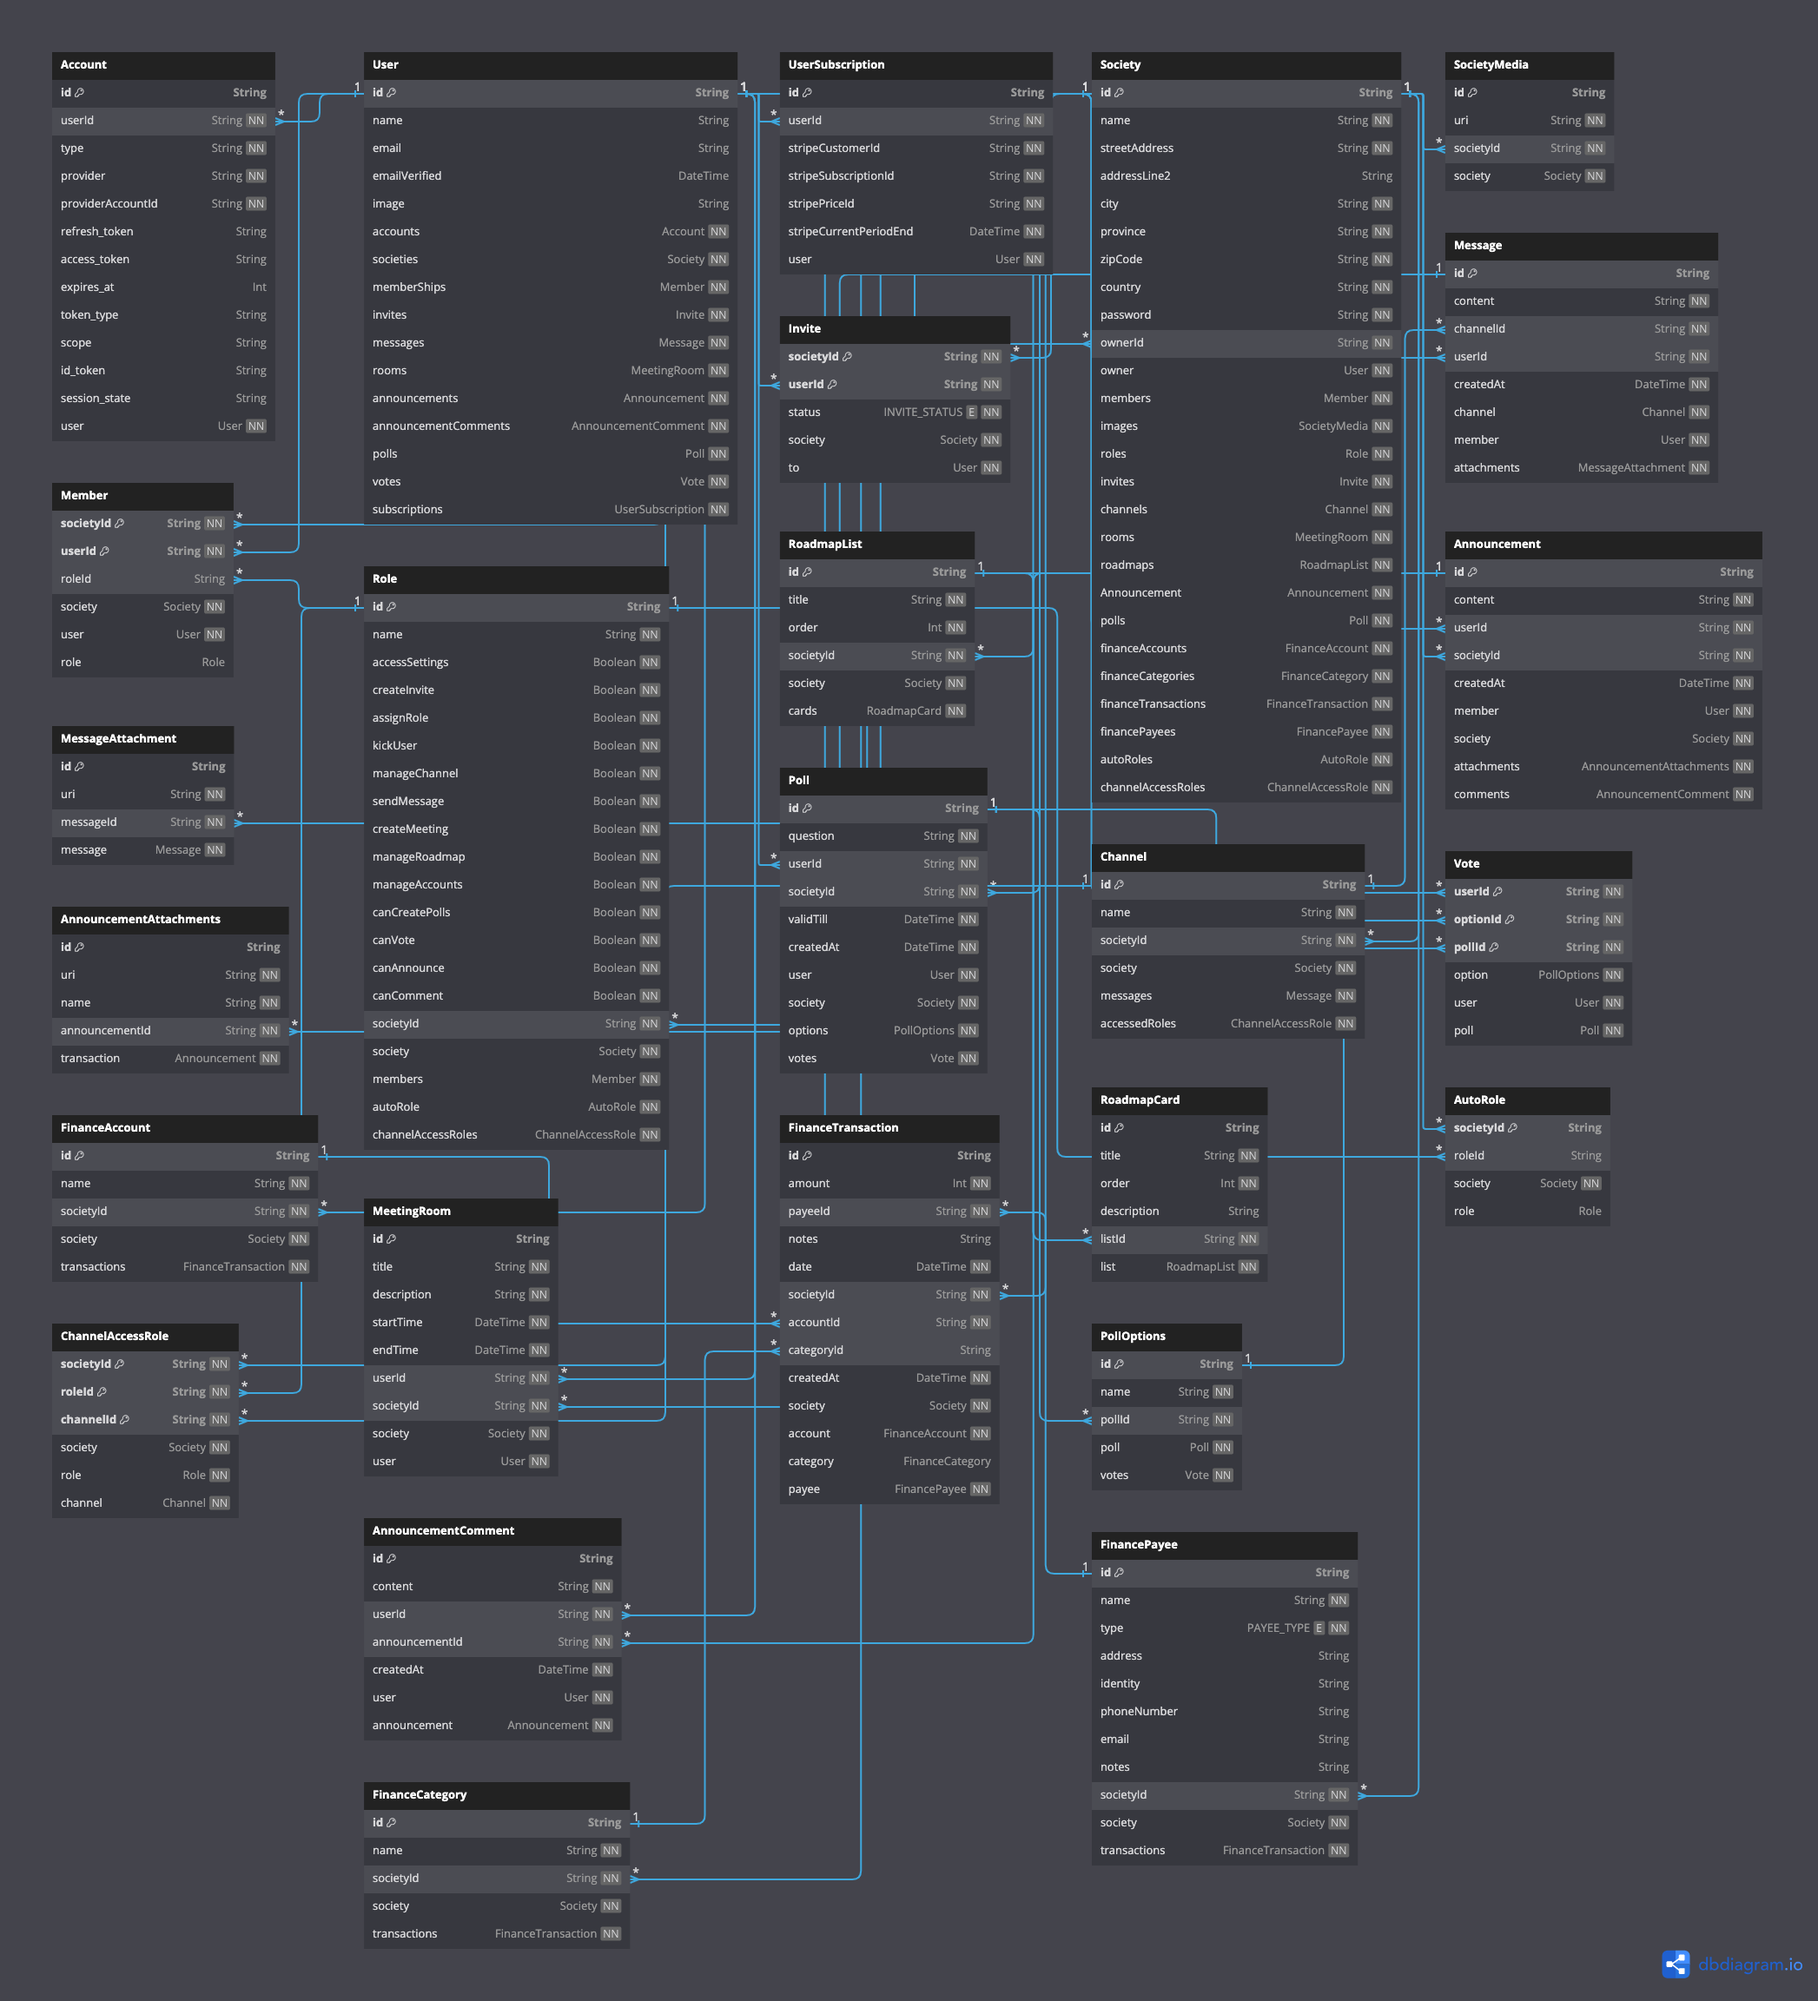
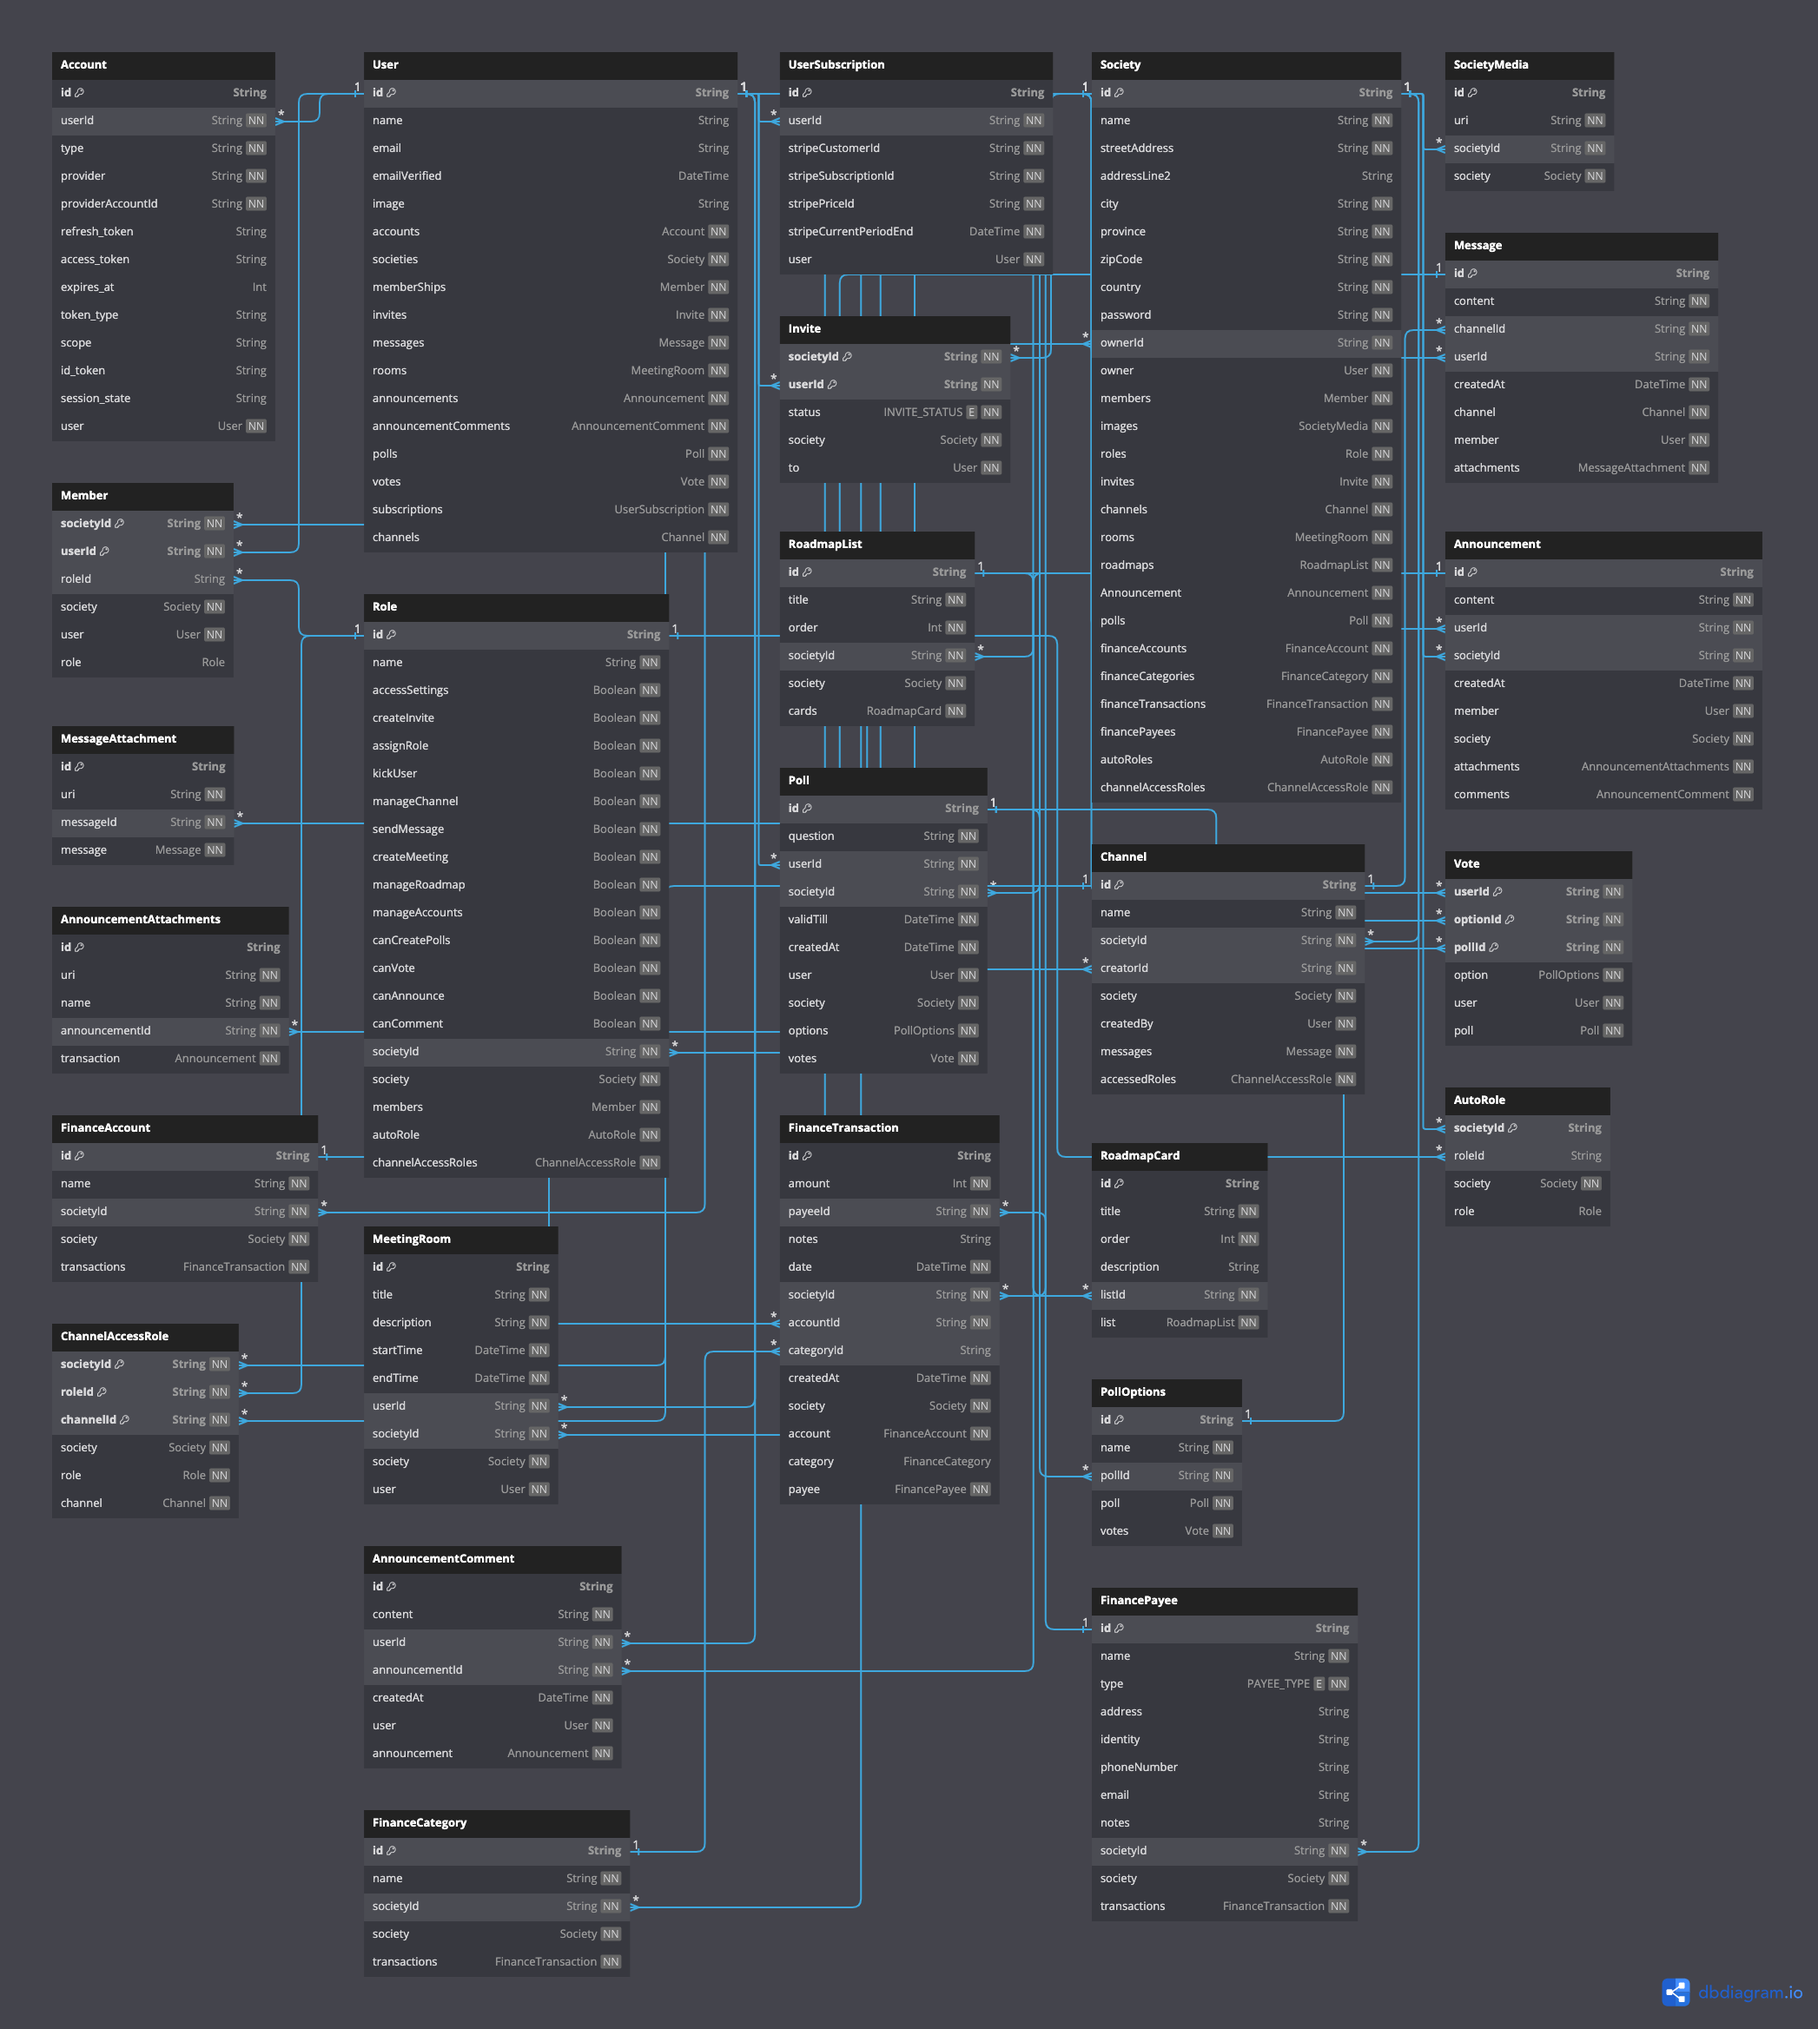
yup users are seeing channels based on their access

diff --git a/src/server/api/routers/feed/channel/channel.ts b/src/server/api/routers/feed/channel/channel.ts
@@ -43,19 +43,82 @@ export const channelRouter = createTRPCRouter({
         societyId: z.string().cuid(),
       }),
     )
-    .query(async ({ ctx: { db }, input: { societyId } }) => {
-      const channels = await db.channel.findMany({
+    .query(async ({ ctx: { db, session }, input: { societyId } }) => {
+      const userId = session.user.id;
+
+      // Get the user's role in the society
+      const userMember = await db.member.findUnique({
         where: {
-          societyId,
+          id: {
+            userId,
+            societyId,
+          },
         },
         select: {
-          name: true,
-          id: true,
-        },
-        orderBy: {
-          name: "asc",
+          roleId: true,
         },
       });
+
+      if (!userMember)
+        throw new TRPCError({
+          message: "User is not a member of this society",
+          code: "NOT_FOUND",
+        });
+
+      const { roleId } = userMember;
+
+      // Check if the user is the owner of the society
+      const isOwner = await db.society.findFirst({
+        where: {
+          id: societyId,
+          ownerId: userId,
+        },
+      });
+
+      // Define the channels query
+      let channelsQuery: unknown;
+
+      if (isOwner) {
+        // Owner can see all channels
+        channelsQuery = db.channel.findMany({
+          where: {
+            societyId,
+          },
+          select: {
+            name: true,
+            id: true,
+          },
+          orderBy: {
+            name: "asc",
+          },
+        });
+      } else {
+        // Check if the user is a channel creator or has access based on roles
+        channelsQuery = db.channel.findMany({
+          where: {
+            societyId,
+            OR: [
+              { creatorId: userId },
+              {
+                accessedRoles: {
+                  some: {
+                    roleId: roleId ?? undefined,
+                  },
+                },
+              },
+            ],
+          },
+          select: {
+            name: true,
+            id: true,
+          },
+          orderBy: {
+            name: "asc",
+          },
+        });
+      }
+
+      const channels = await channelsQuery;
 
       return channels;
     }),
